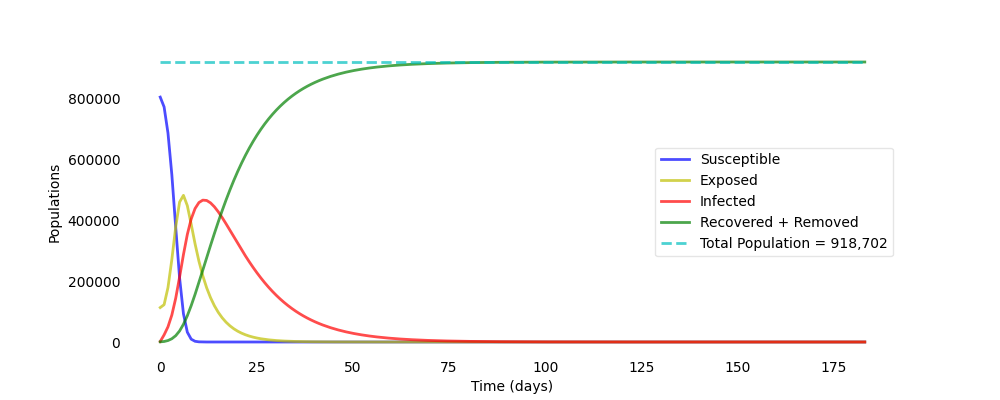
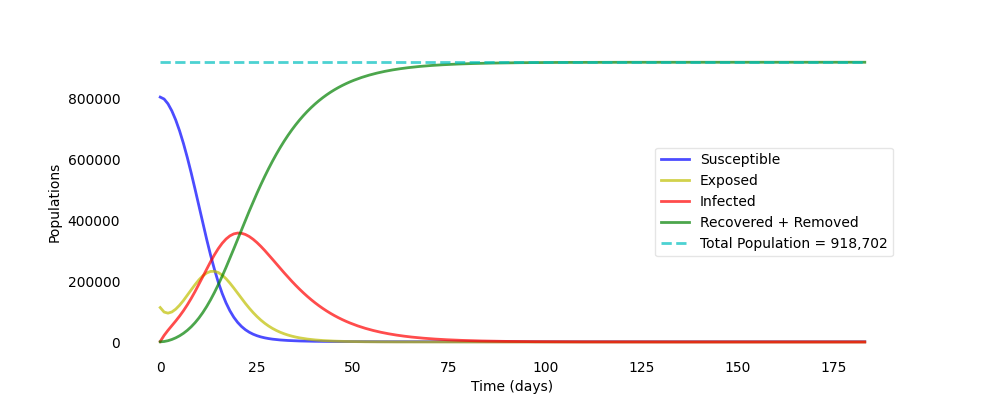
changed bets from int to float

Changed region(s): [[0.155, 0.15, 0.868, 0.87]]

diff --git a/seir.py b/seir.py
@@ -25,7 +25,7 @@ E0 = 113000
 S0 = N - I0 - R0 - E0
 #print(S0)
 # Contact rate (set by user)
-beta = int(sys.argv[1])
+beta = float(sys.argv[1])
 #beta = float(input("Enter how many people outside will you be in contact with per day (can be in decimal): "))
 
 # Source for info below: https://patient.info/news-and-features/coronavirus-how-quickly-do-covid-19-symptoms-develop-and-how-long-do-they-last
